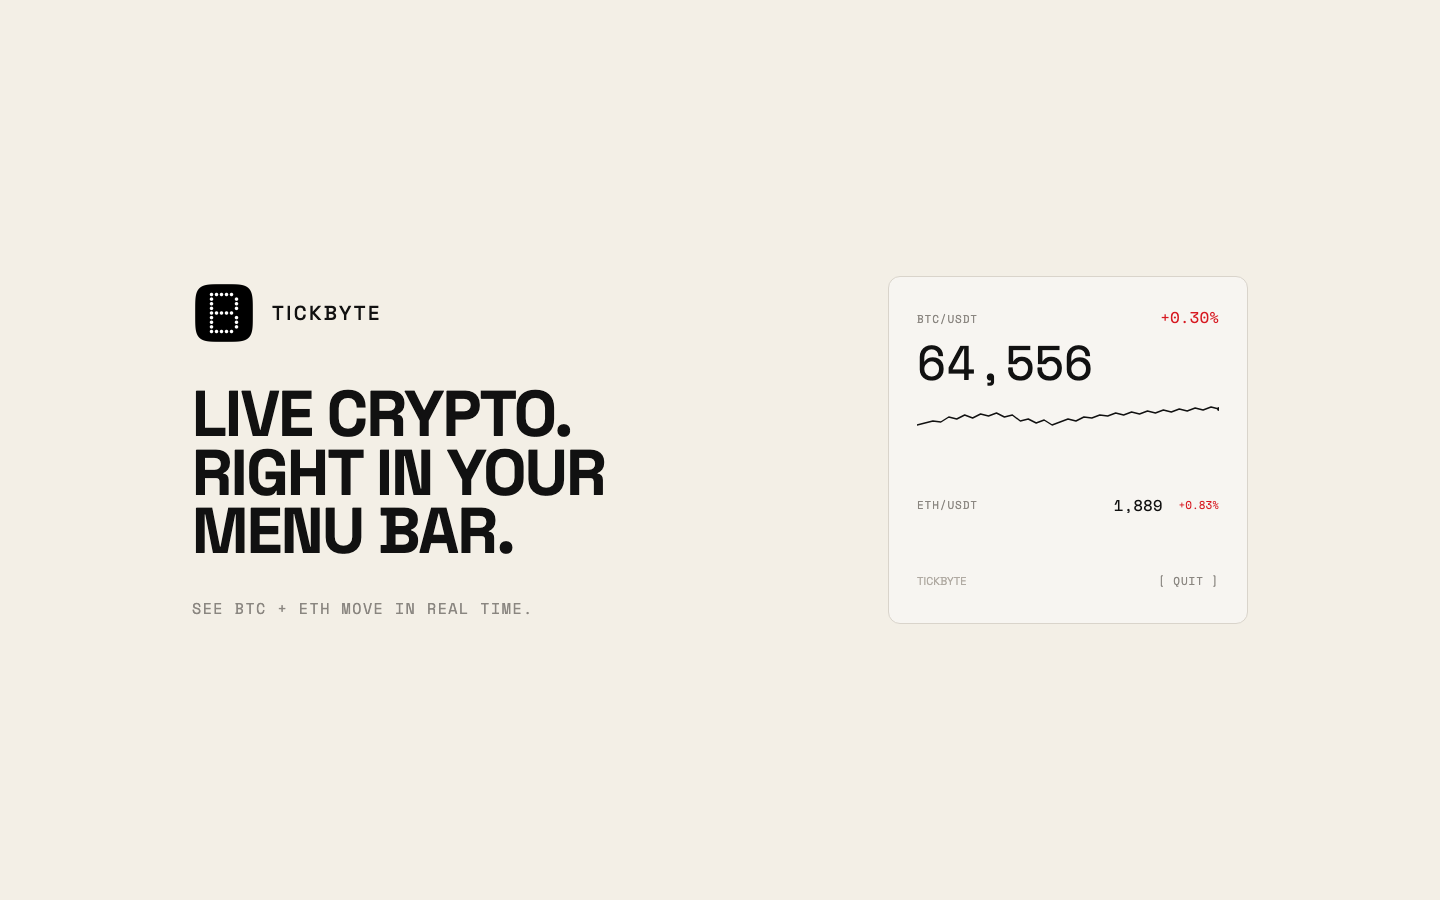
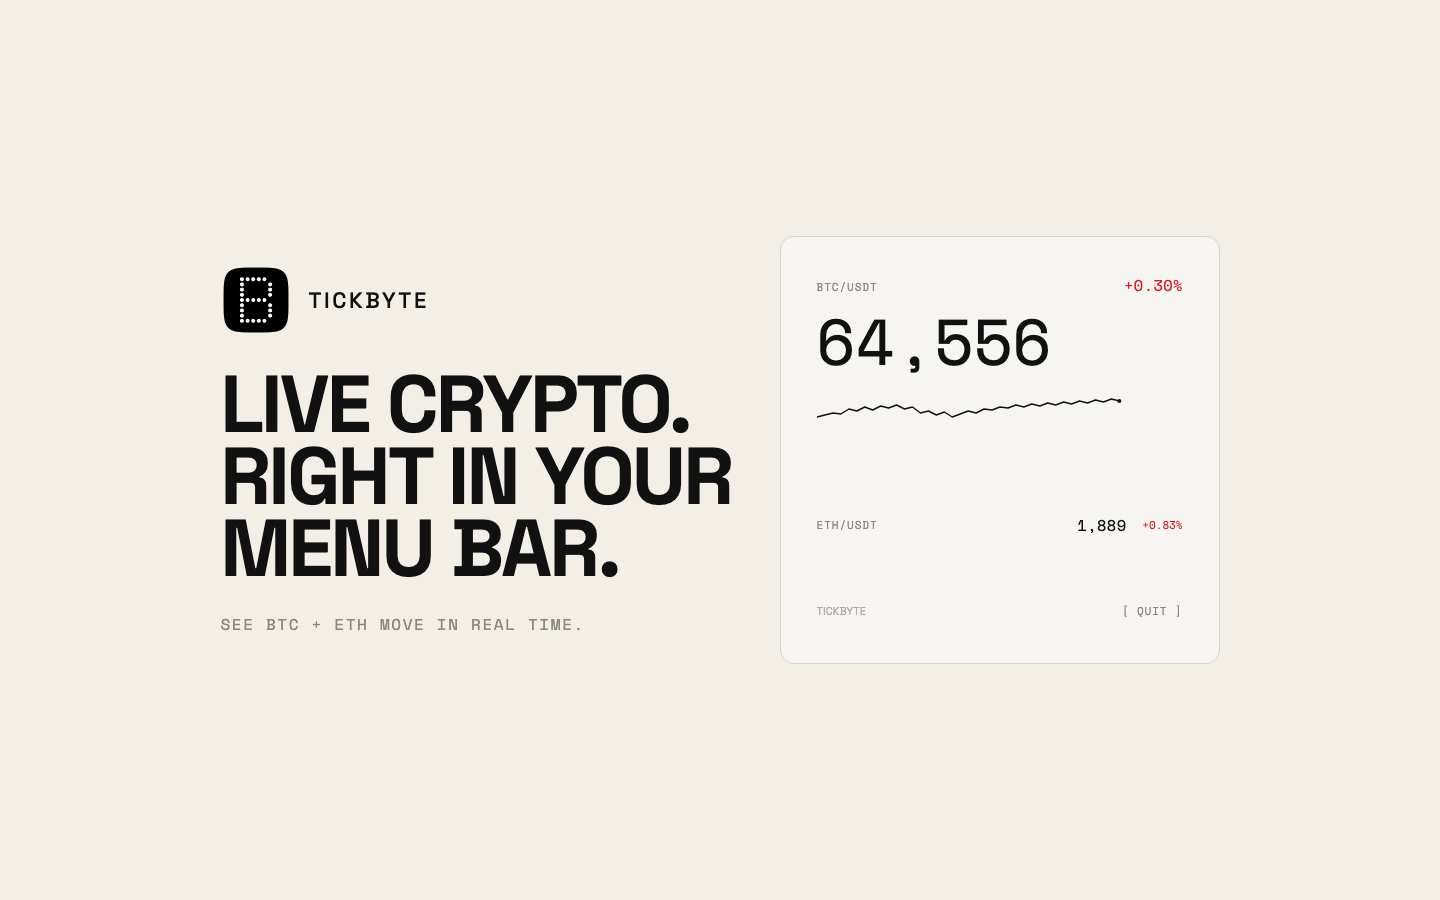
Tighten the v5 listing shot
Scale type and the panel up and sit them 48px apart so the
cream is a margin, not a hole in the middle.

diff --git a/AppStore/Screenshots/mock-v5.html b/AppStore/Screenshots/mock-v5.html
@@ -21,53 +21,53 @@
       display: flex;
       align-items: center;
       justify-content: center;
-      gap: 56px;
-      padding: 0 88px;
+      gap: 48px;
+      padding: 64px;
       background: #F3EFE6;
       color: #111;
     }
 
-    .brand { width: 640px; }
+    .brand { width: max-content; max-width: 620px; }
     .identity {
       display: flex;
       align-items: center;
       gap: 16px;
-      margin-bottom: 40px;
+      margin-bottom: 32px;
     }
     .identity img {
-      width: 64px;
-      height: 64px;
-      border-radius: 12px;
+      width: 72px;
+      height: 72px;
+      border-radius: 14px;
     }
     .identity span {
       font-family: "Space Grotesk", sans-serif;
-      font-size: 20px;
+      font-size: 22px;
       font-weight: 500;
       letter-spacing: 0.12em;
     }
     h1 {
       font-family: "Space Grotesk", sans-serif;
-      font-size: 64px;
+      font-size: 80px;
       font-weight: 700;
-      letter-spacing: -0.025em;
-      line-height: 0.92;
+      letter-spacing: -0.03em;
+      line-height: 0.9;
       text-transform: uppercase;
     }
     .lede {
-      margin-top: 36px;
+      margin-top: 28px;
       font-family: "Space Mono", monospace;
-      font-size: 15px;
+      font-size: 16px;
       letter-spacing: 0.1em;
       text-transform: uppercase;
       color: #8A8680;
     }
 
     .panel {
-      width: 360px;
-      padding: 28px 28px 20px;
+      width: 440px;
+      padding: 36px 36px 28px;
       background: #F7F5F1;
       border: 1px solid #D9D4CB;
-      border-radius: 12px;
+      border-radius: 14px;
     }
     .row {
       display: flex;
@@ -87,19 +87,19 @@
       color: #D71921;
     }
     .hero-price {
-      margin-top: 8px;
+      margin-top: 10px;
       font-family: "Space Mono", monospace;
-      font-size: 48px;
+      font-size: 64px;
       line-height: 1.05;
       color: #111;
     }
-    .chart { margin-top: 16px; }
-    .chart svg { width: 100%; height: 32px; display: block; }
+    .chart { margin-top: 20px; }
+    .chart svg { width: 100%; height: 48px; display: block; }
     .compact {
       display: flex;
       align-items: center;
-      min-height: 44px;
-      margin-top: 48px;
+      min-height: 52px;
+      margin-top: 56px;
     }
     .compact-pair { flex: 1; }
     .compact-price {
@@ -117,8 +117,8 @@
       display: flex;
       align-items: center;
       justify-content: space-between;
-      margin-top: 32px;
-      min-height: 44px;
+      margin-top: 36px;
+      min-height: 48px;
     }
     .wordmark {
       font-family: "Space Grotesk", sans-serif;
@@ -145,7 +145,7 @@
     </div>
     <div class="hero-price">64,556</div>
     <div class="chart">
-      <svg viewBox="0 0 304 32" preserveAspectRatio="none">
+      <svg viewBox="0 0 368 48" preserveAspectRatio="none">
         <polyline
           fill="none"
           stroke="#111"
